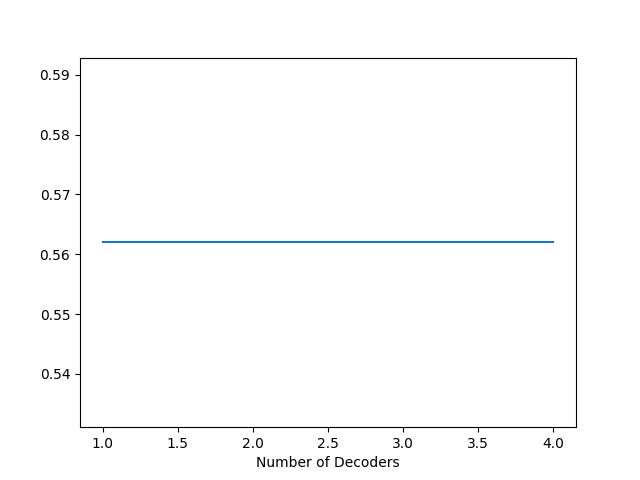
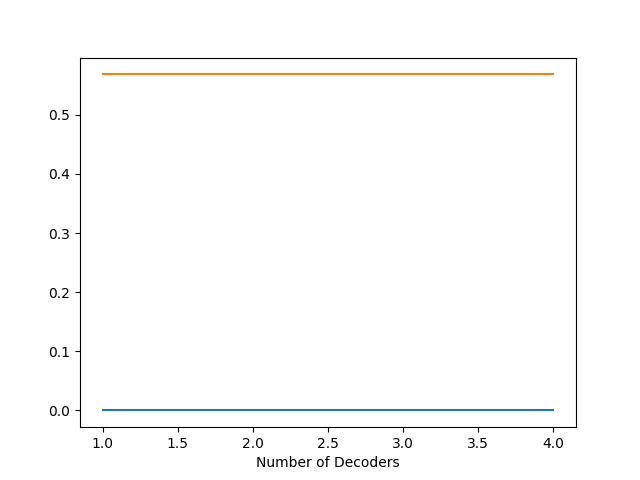
fix distance

diff --git a/Project2/distances.py b/Project2/distances.py
@@ -52,10 +52,11 @@ sample_pairs = [(test_data[random.randint(0,999)], test_data[random.randint(0,99
 print(len(sample_pairs))
 print(sample_pairs[0][0].shape)
 euclidian_cov = dict()
+geodesic_cov = dict()
 
 for i in range(1,max_num_decoders+1):
     euclidian_cov[i] = []
-    geodesic_cov = []
+    geodesic_cov[i] = []
     for pair in sample_pairs:
         euclidian_distances = []
         geodesic_distances = []
@@ -89,7 +90,9 @@ for i in range(1,max_num_decoders+1):
 
 for i in range(1, max_num_decoders+1):
     euclidian_cov[i] = np.mean(euclidian_cov[i])
+    geodesic_cov[i] = np.mean(geodesic_cov[i])
 euclidian_cov = [euclidian_cov[i] for i in range(1, max_num_decoders+1)]
+geodesic_cov = [geodesic_cov[i] for i in range(1, max_num_decoders+1)]
 print(euclidian_cov)
 
 plt.plot(range(1,max_num_decoders+1), geodesic_cov, label="Euclidian Covariance")
